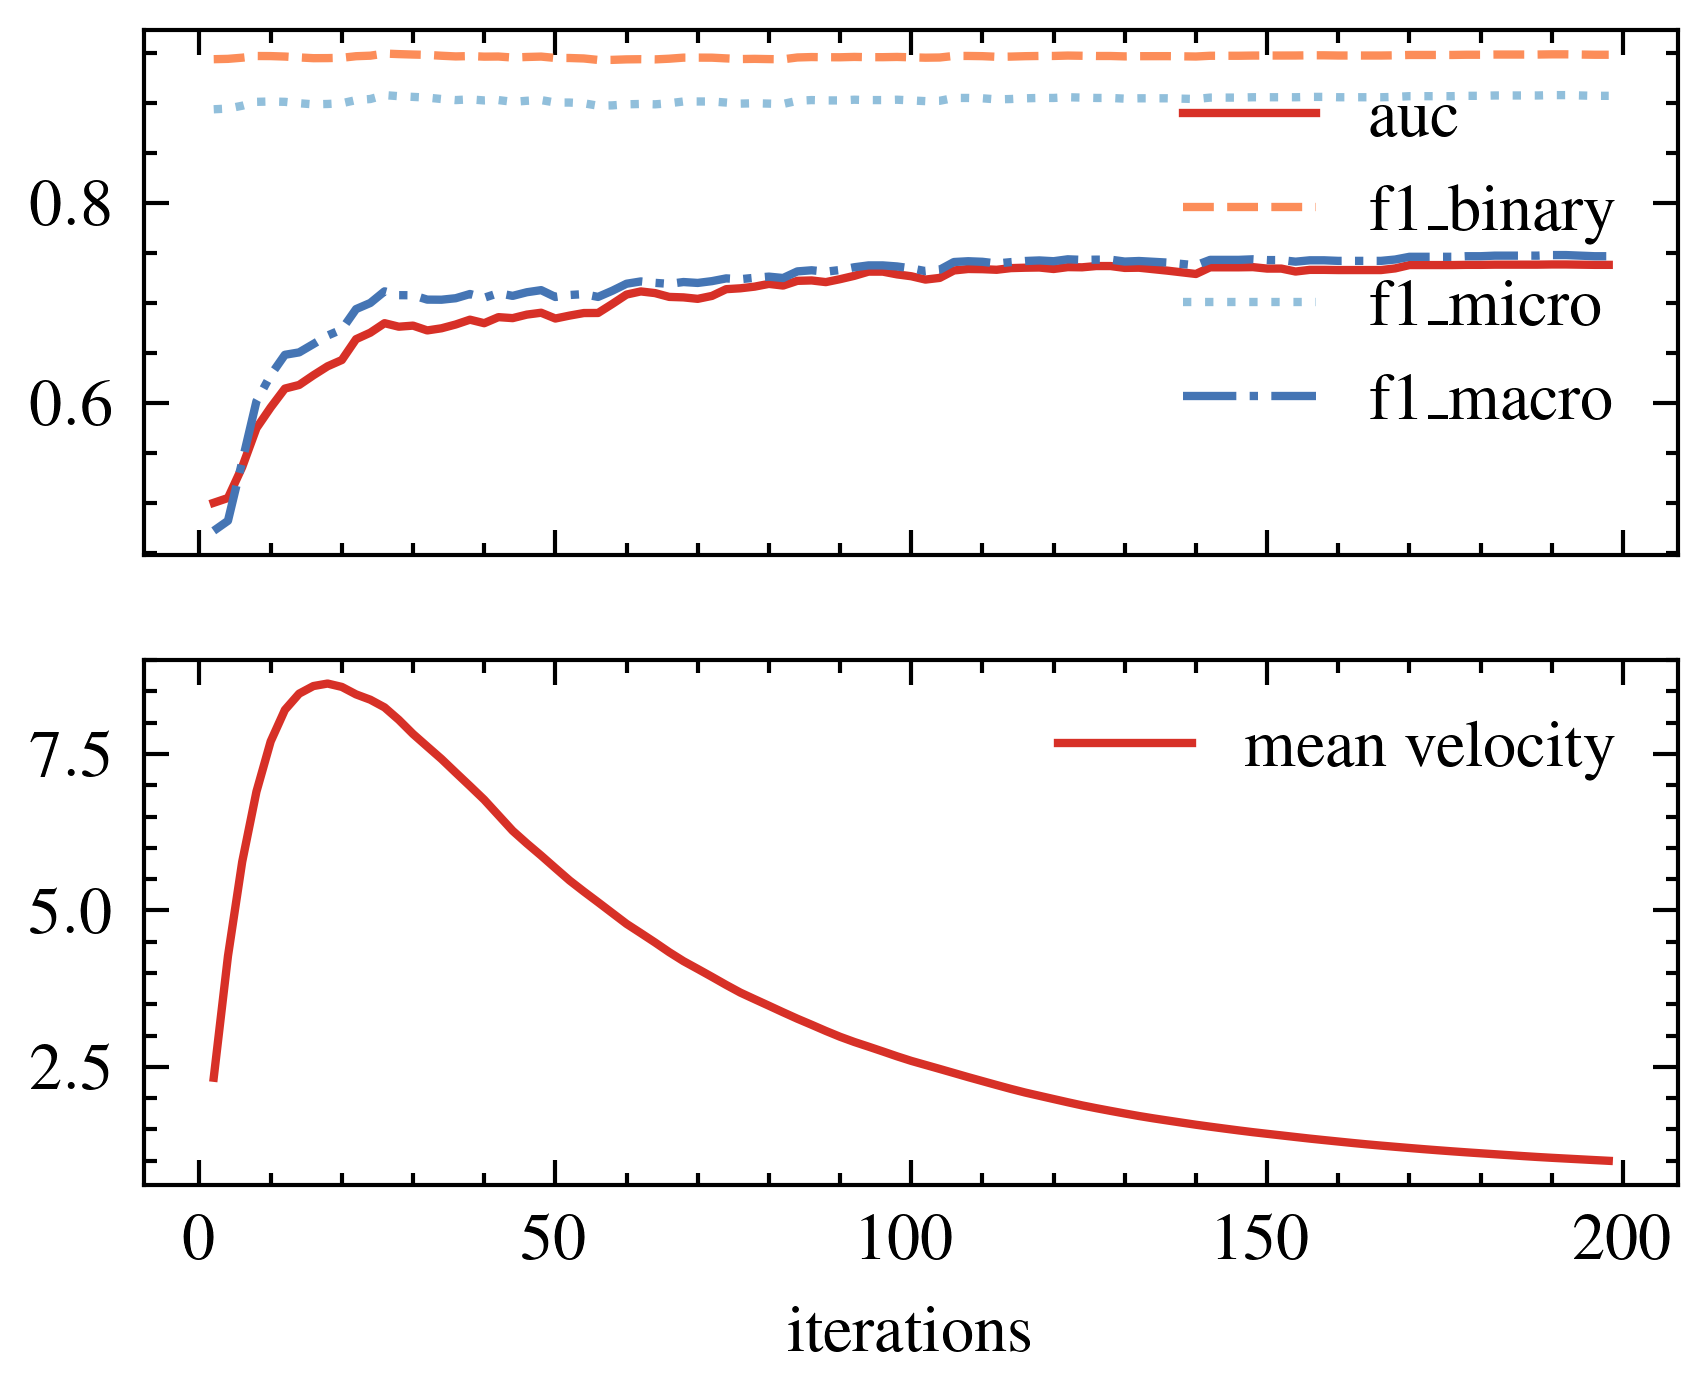
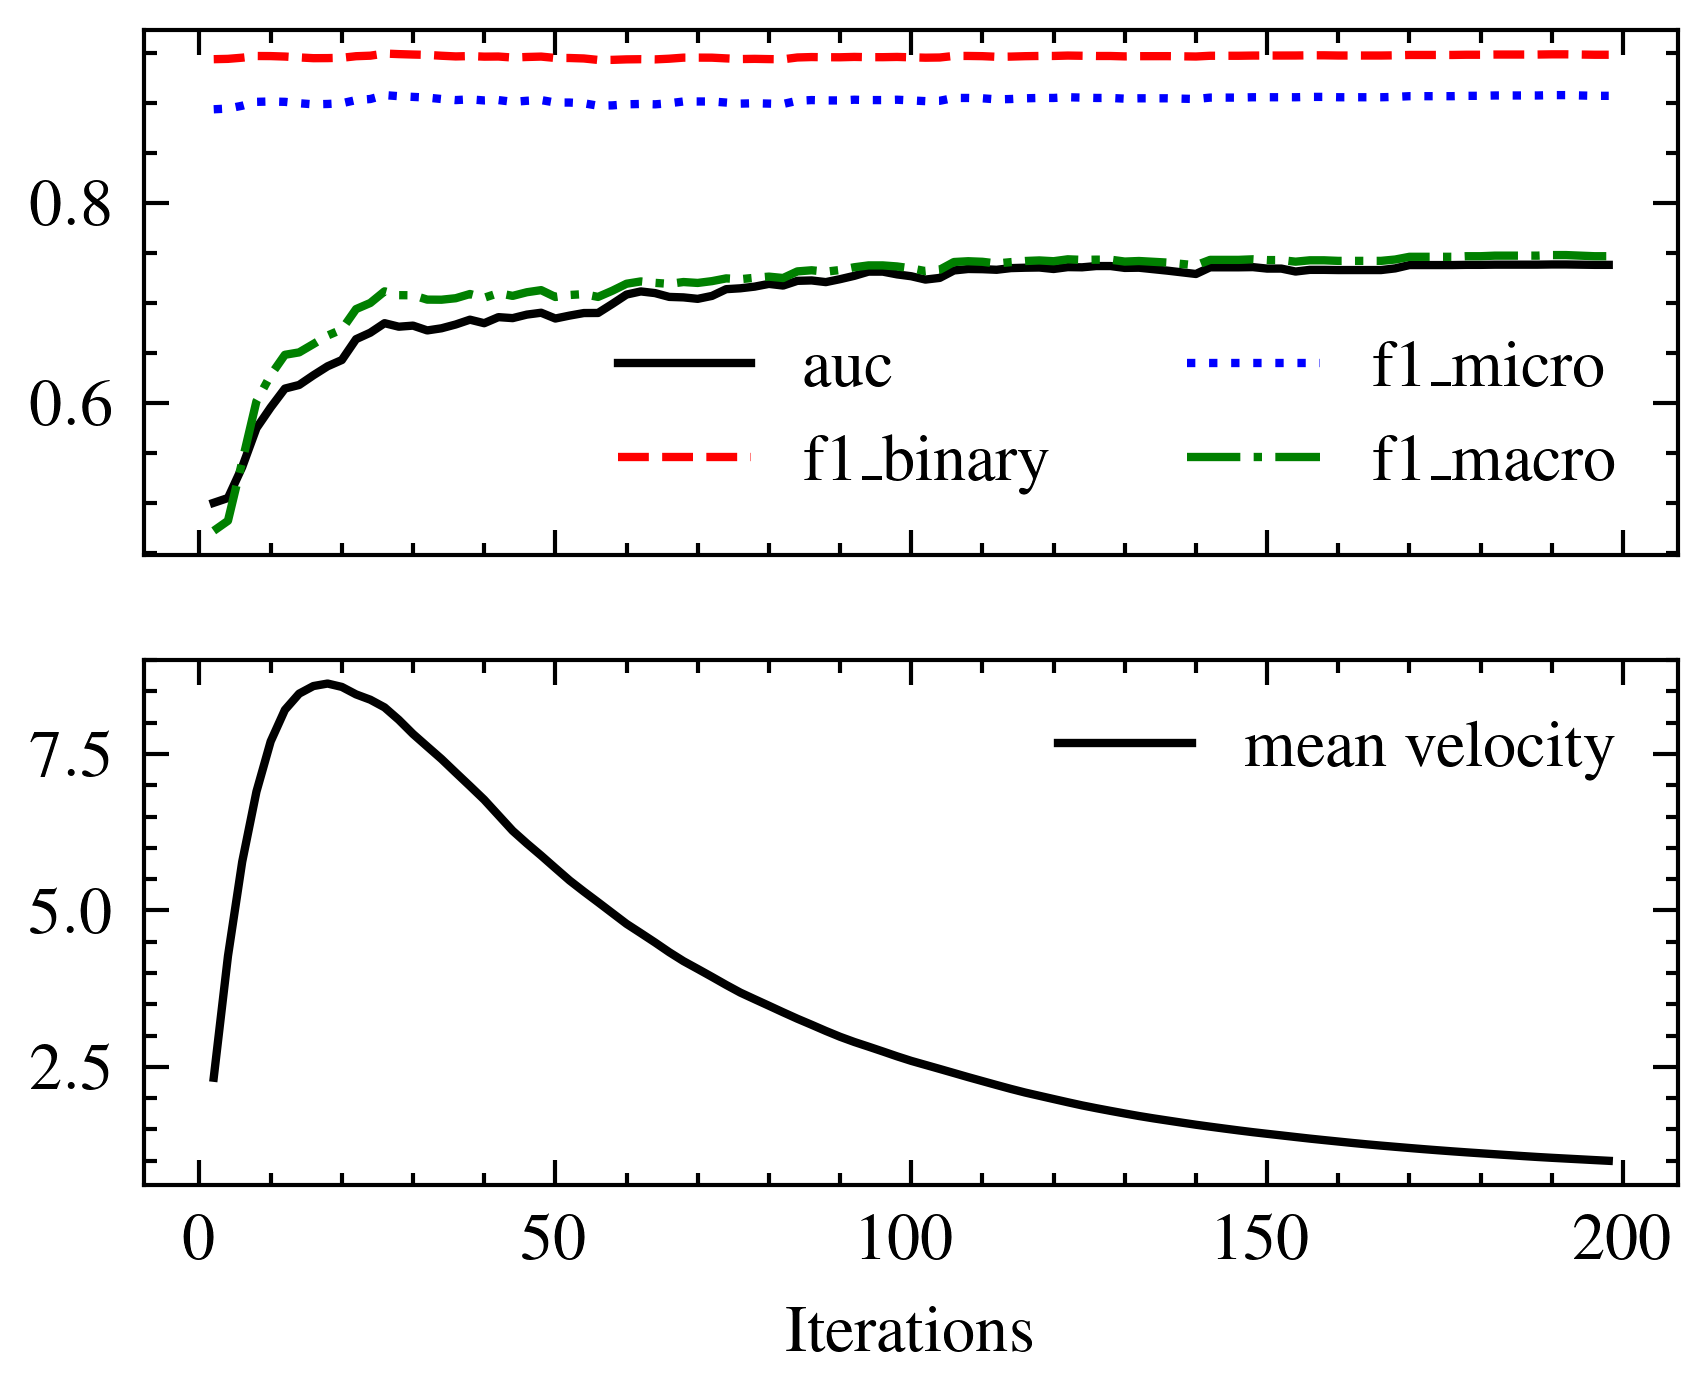
add scripts for plot generation

diff --git a/plots/forward.py b/plots/forward.py
@@ -28,17 +28,17 @@ fig, ax = plt.subplots()
 
 fig, (ax1, ax2) = plt.subplots(2, 1, sharex=True)
 
-ax1.plot(data.iterations, data.auc, label='auc', color='#d73027')
-ax1.plot(data.iterations, data.f1_binary, label='f1_binary', color='#fc8d59')
-ax1.plot(data.iterations, data.f1_micro, label='f1_micro', color='#91bfdb')
-ax1.plot(data.iterations, data.f1_macro, label='f1_macro', color='#4575b4')
+ax1.plot(data.iterations, data.auc, label='auc')
+ax1.plot(data.iterations, data.f1_binary, label='f1_binary')
+ax1.plot(data.iterations, data.f1_micro, label='f1_micro')
+ax1.plot(data.iterations, data.f1_macro, label='f1_macro')
 
 # put legend outside of the plot    
-ax1.legend(loc='upper right')
+ax1.legend(loc='lower right', ncol=2)
 
-ax2.plot(data.iterations, data.mean_velocity, label='mean velocity', color='#d73027')
+ax2.plot(data.iterations, data.mean_velocity, label='mean velocity')
 
-ax2.set_xlabel('iterations')
+ax2.set_xlabel('Iterations')
 ax2.legend()
 
 

diff --git a/README.md b/README.md
@@ -9,7 +9,7 @@ This is the code for the paper called (Papername) which was published in (Journa
 Installation instructions for Ubuntu (conda venv recommended):
 
 1. Install jax: 
-``pip install --upgrade "jax[cuda12_pip]" -f https://storage.googleapis.com/jax-releases/jax_cuda_releases.html``
+``pip install -U "jax[cuda12]"``
 2. Install pytorch (CPU version !) ``pip install torch torchvision torchaudio --index-url https://download.pytorch.org/whl/cpu``
 3. Install other dependencies: ``pip install torch_geometric matplotlib scikit-learn pyyaml tqdm optax inquirer pandas``
 
